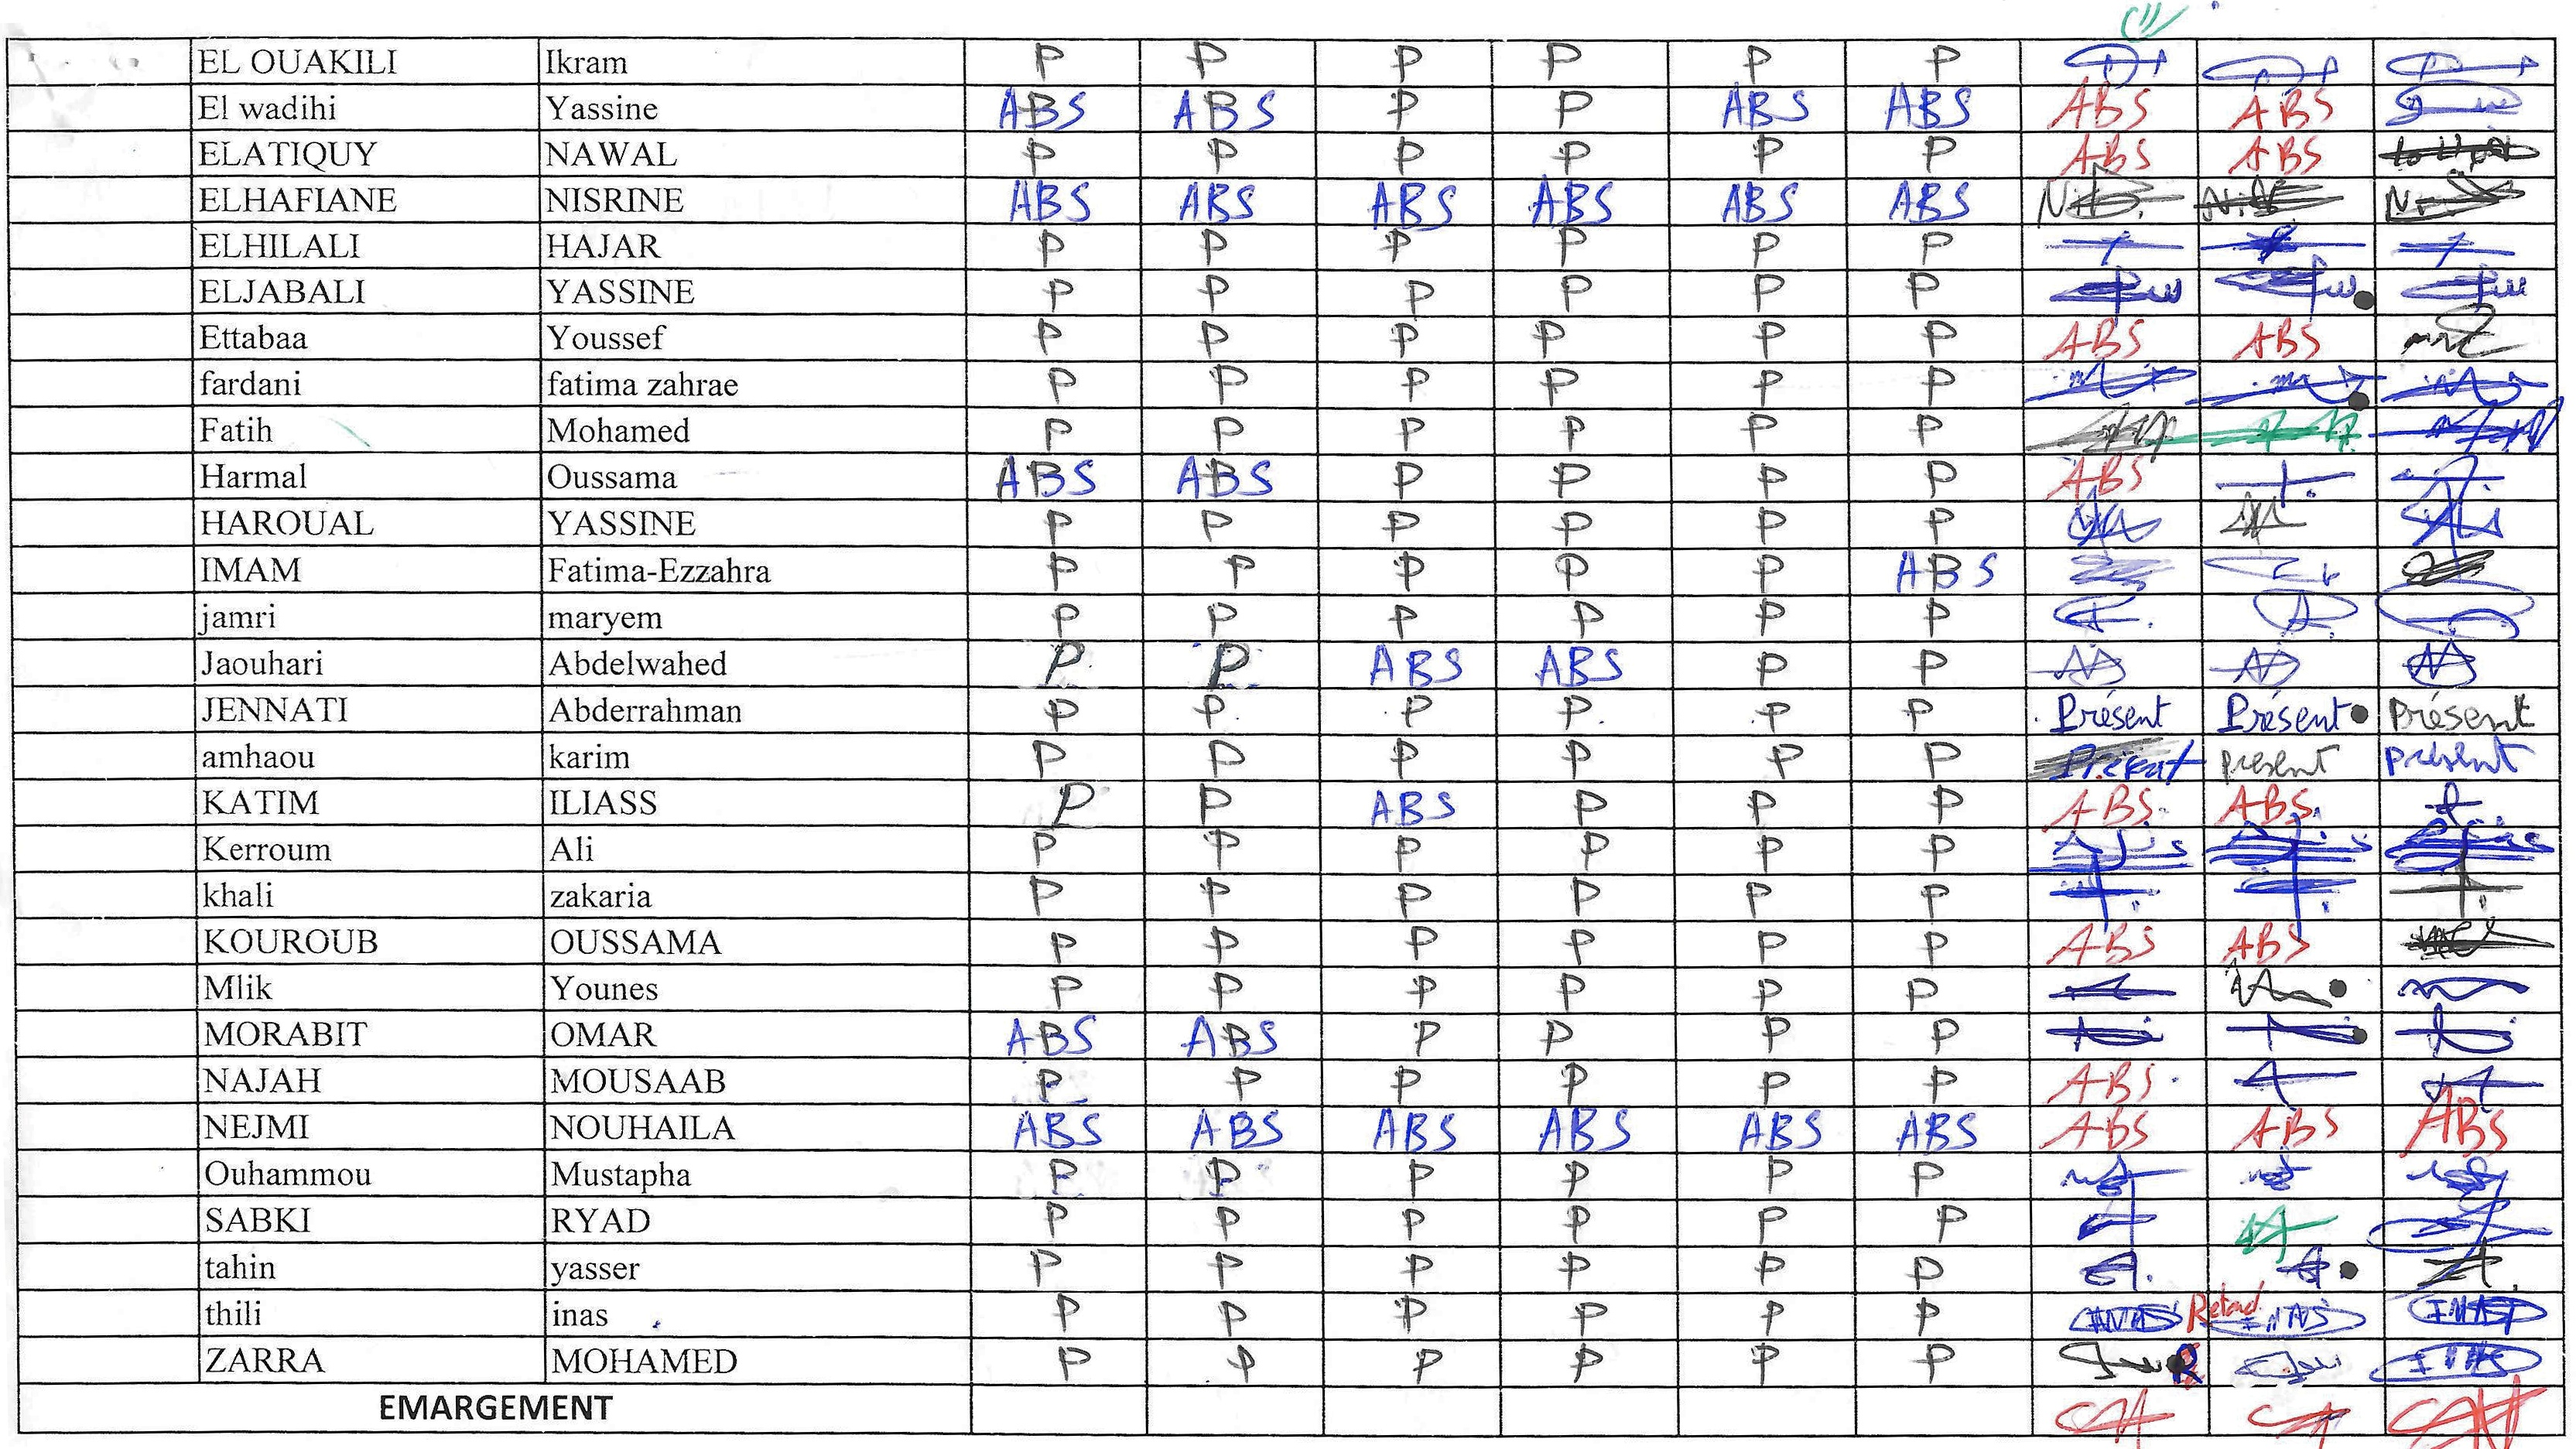
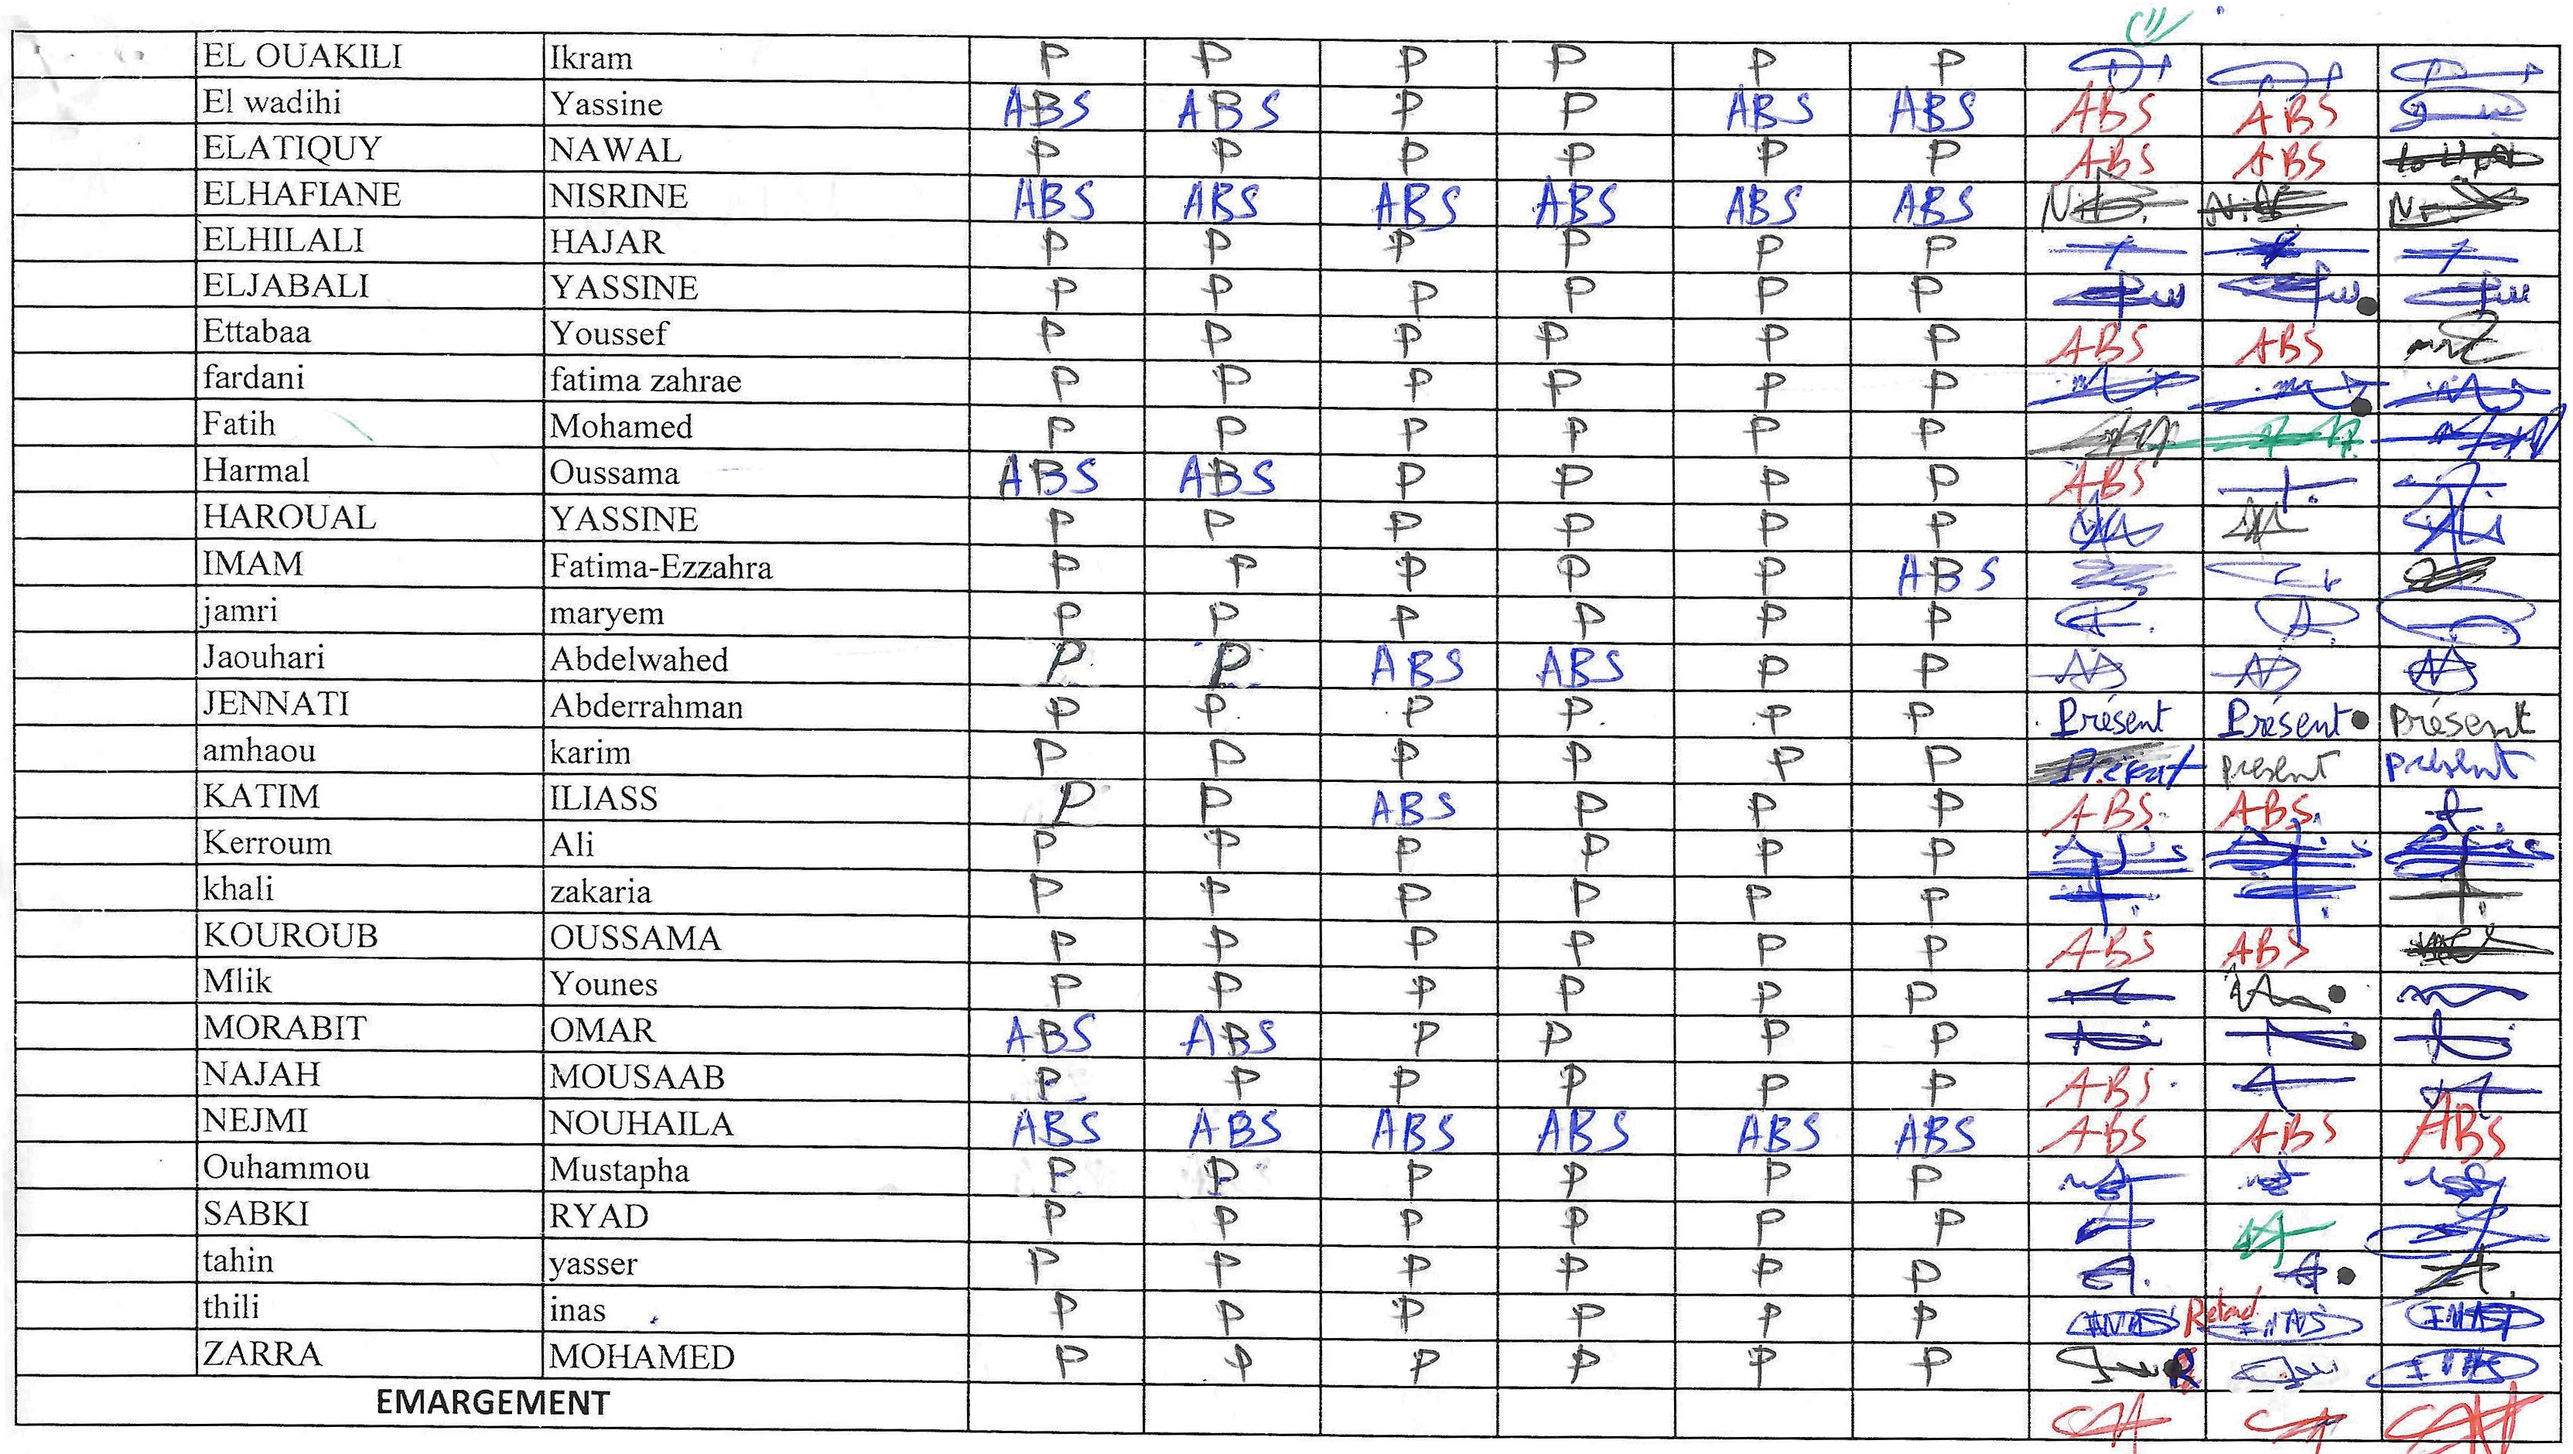
fix: perfected preprocessing logic

Changed region(s): [[0.0, 0.0, 1.0, 1.0]]

diff --git a/src/preprocessing.py b/src/preprocessing.py
@@ -130,31 +130,36 @@ def _extract_lines(gray: np.ndarray, h_kernel, v_kernel):
 
 def _deskew(img: np.ndarray) -> np.ndarray:
     """
-    Measure the median angle of the detected horizontal table lines and rotate
+    Measure the median angle of the horizontal table lines and rotate
     the image so they become perfectly horizontal.
 
-    Uses Canny edge detection instead of morphological lines to find the true
-    skew angle, because morphological kernels force pixels to be horizontal
-    and destroy sub-degree skew information.
+    Uses cv2.fitLine on the contours of horizontally morphed grid lines.
+    This provides sub-pixel accuracy and ignores slanted handwriting which
+    would otherwise bias Canny edge detection.
     """
     gray = cv2.cvtColor(img, cv2.COLOR_BGR2GRAY)
     
-    edges = cv2.Canny(gray, 50, 150, apertureSize=3)
-    lines = cv2.HoughLinesP(edges, 1, np.pi / 180, 200,
-                            minLineLength=300, maxLineGap=50)
-    angle = 0.0
-    if lines is not None:
-        angles = []
-        for line in lines:
-            x1, y1, x2, y2 = line[0]
-            a = np.degrees(np.arctan2(y2 - y1, x2 - x1))
-            # We only care about lines that are roughly horizontal
-            if -15 < a < 15 and abs(a) > 0.1:
-                angles.append(a)
-        if angles:
-            angle = float(np.median(angles))
+    # Isolate horizontal grid lines using morphology
+    _, binary = cv2.threshold(gray, 0, 255, cv2.THRESH_BINARY_INV + cv2.THRESH_OTSU)
+    h_kernel = cv2.getStructuringElement(cv2.MORPH_RECT, (150, 1))
+    h_lines = cv2.morphologyEx(binary, cv2.MORPH_OPEN, h_kernel)
 
-    if abs(angle) < 0.05:   # Already straight — skip warp
+    # Find contours of these horizontal lines
+    contours, _ = cv2.findContours(h_lines, cv2.RETR_EXTERNAL, cv2.CHAIN_APPROX_SIMPLE)
+    
+    angles = []
+    for cnt in contours:
+        x, y, w, h = cv2.boundingRect(cnt)
+        if w > 300:  # Only consider long horizontal lines
+            [vx, vy, x0, y0] = cv2.fitLine(cnt, cv2.DIST_L2, 0, 0.01, 0.01)
+            a = np.degrees(np.arctan2(vy, vx))
+            # We only care about lines that are roughly horizontal
+            if -15 < a < 15:
+                angles.append(a[0])
+                
+    angle = float(np.median(angles)) if angles else 0.0
+
+    if abs(angle) < 0.05:
         return img
 
     h, w = img.shape[:2]
